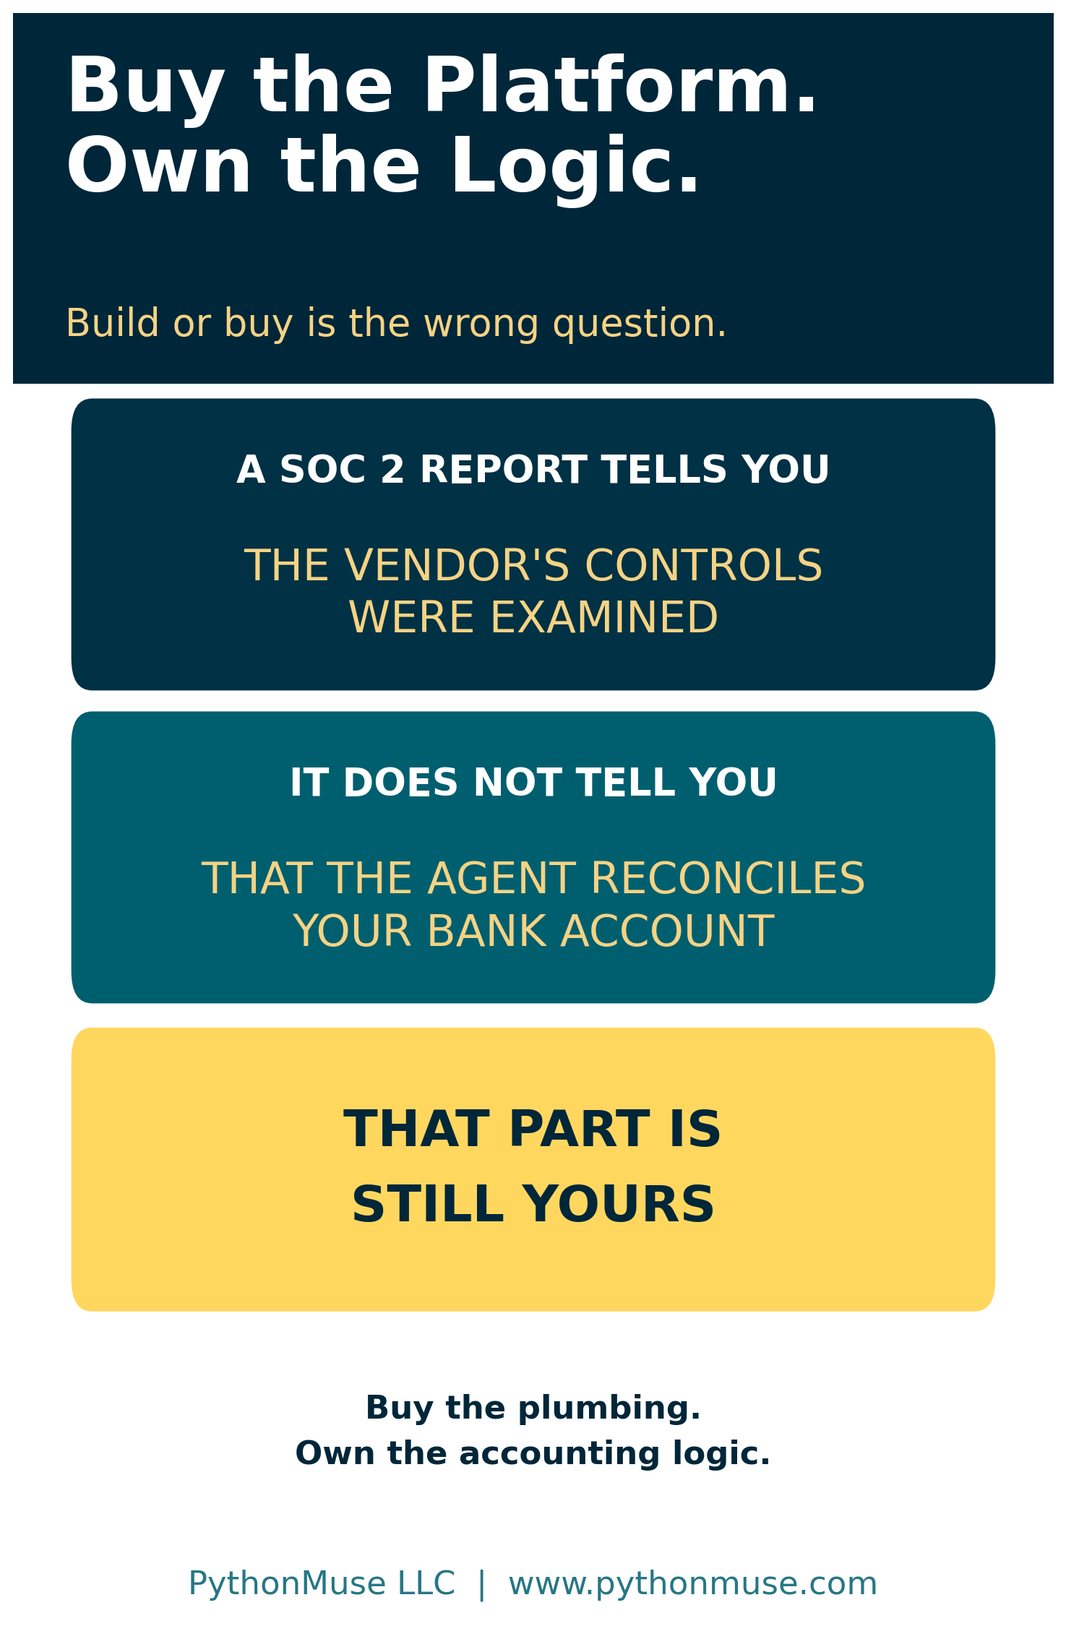
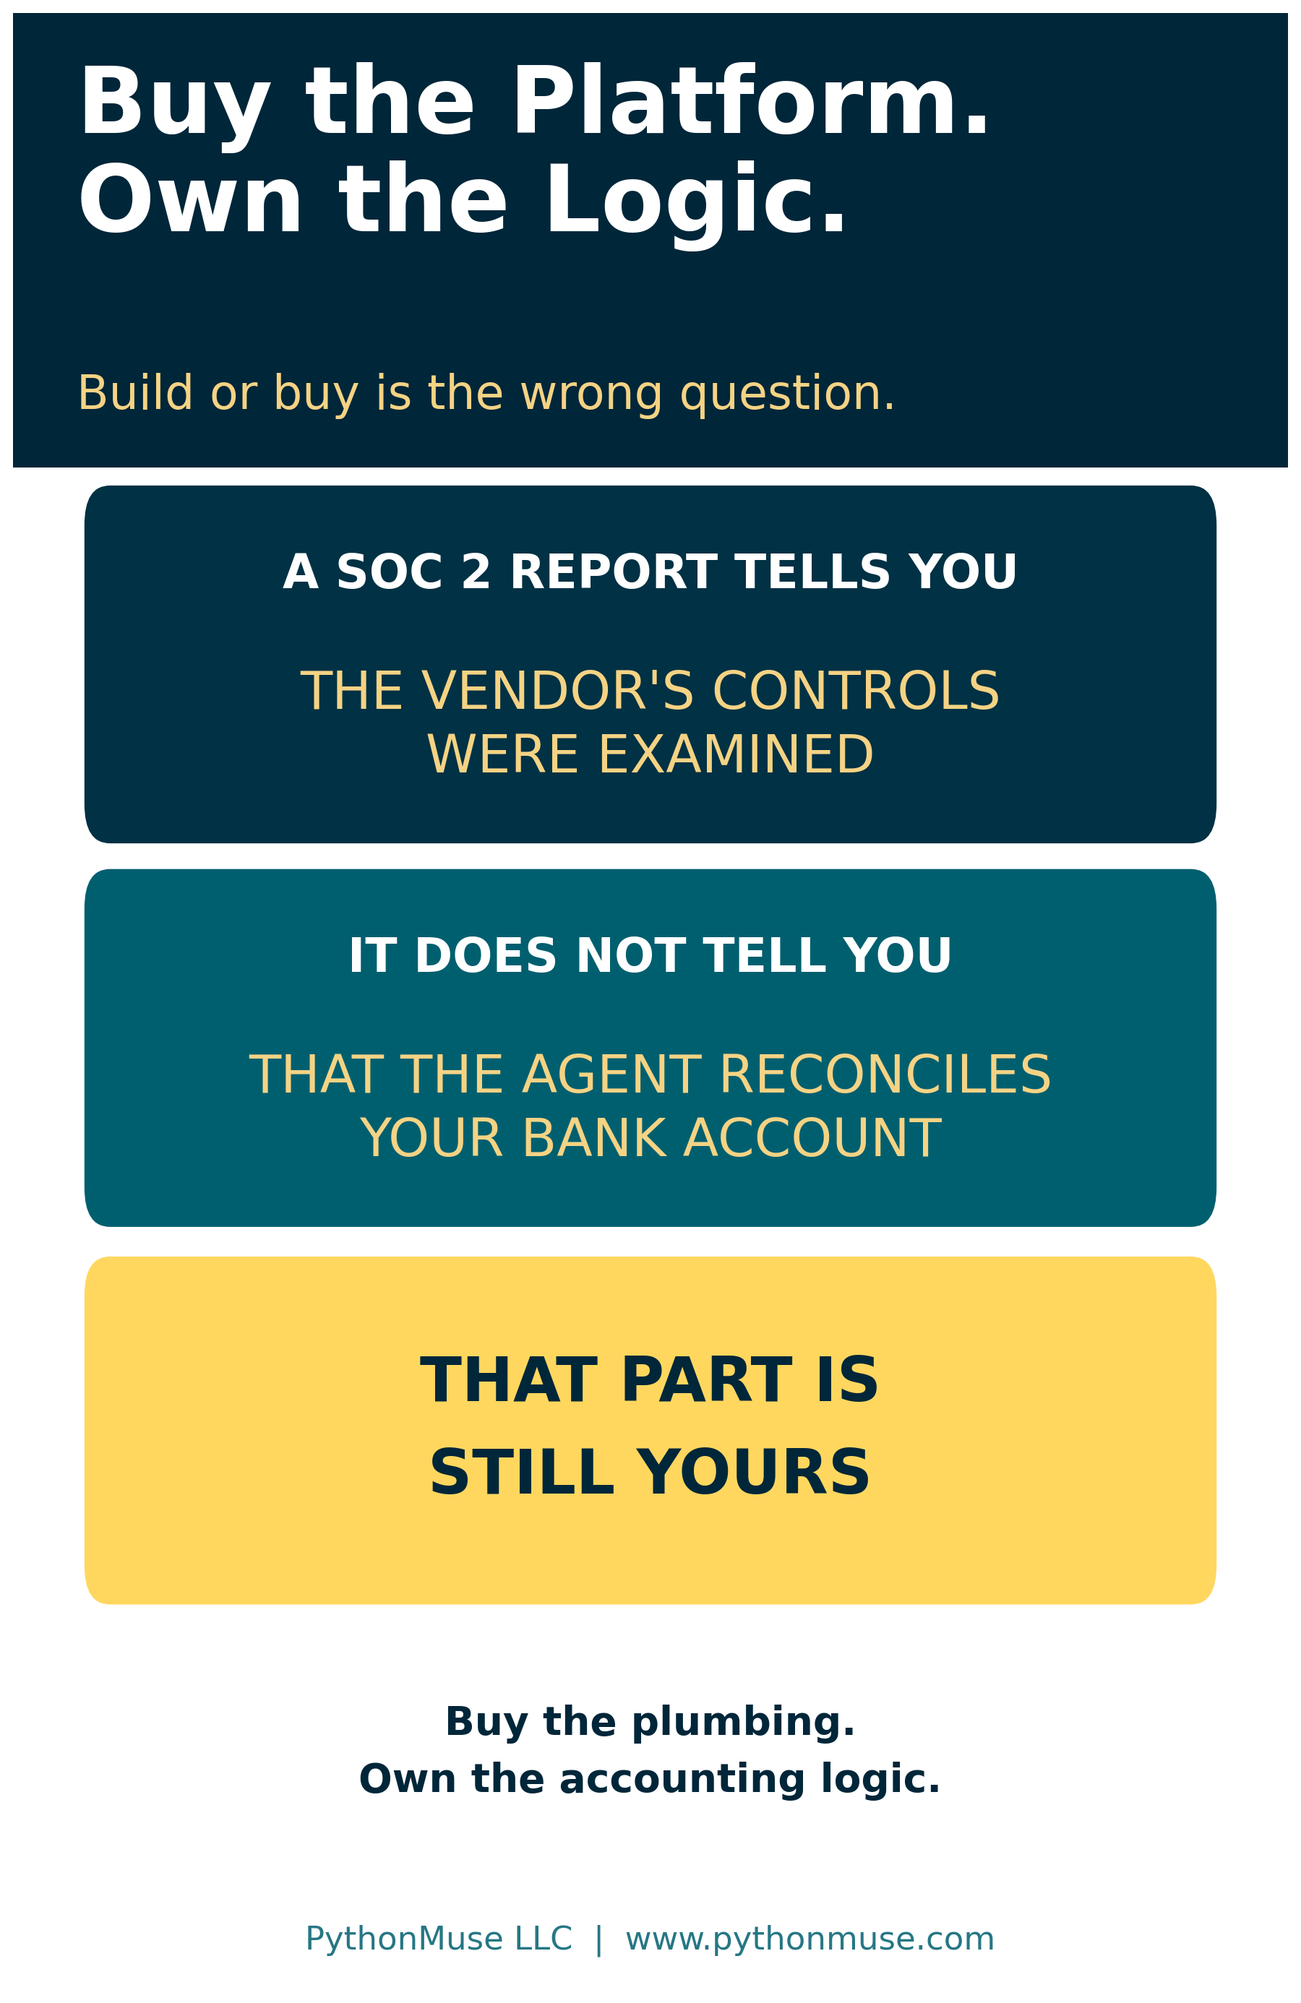
Scale Article 39 visuals for PowerPoint use: 22pt floor, proportional up
The set was tuned with an 18pt floor for full-screen PNG viewing. Since
these are meant to land on slides too, raised the floor to 22pt and scaled
every other size in each visual by the same 22/18 ratio -- not just the
smallest text, so relative proportions between title/body/label text are
unchanged.

Added FONT_SCALE plus pt()/canvas()/lw() helpers. Every rounded_box() and
add_header_bar() call still passes its original design-size numbers (pt()
scales internally), so the pre-scale sizing stays visible for reference.
Each figure's physical canvas (inches) scales by the same factor as its
text; since every box position and gap in the file is a fraction of the
figure, this keeps every box the same size relative to its now-larger text
without touching a single coordinate. Line weights (borders, arrows,
divider) scale by the same ratio for the same reason.

Footer branding ("PythonMuse LLC | www.pythonmuse.com") is exempted and
keeps its original size, per instruction -- it now reads as clearly
secondary next to the enlarged content, which is the intent.

Regenerated and reviewed all six PNGs; mkdocs build unaffected (same four
pre-existing warnings in articles 24/25/26, none new).

This is a trial pass, pending review, before the rule is written into
SKILL.md for future articles.

diff --git a/articles/39-buy-platform-own-accounting-logic/generate_visuals.py b/articles/39-buy-platform-own-accounting-logic/generate_visuals.py
@@ -24,6 +24,41 @@ LIGHT_GRAY = "#F5F5F5"
 
 plt.rcParams["font.family"] = "sans-serif"
 
+# ---------------------------------------------------------------------------
+# PowerPoint-readability pass (trial for the house SKILL.md rule): every
+# visual in this article was originally tuned with a 18pt floor. These are
+# meant to be dropped onto a slide, not just viewed full-screen as a PNG, so
+# the floor is raised to 22pt and every other size in the set is scaled up
+# by the same ratio -- not just the smallest text, or the small text would
+# end up closer in size to everything around it than it started.
+#
+# `pt()` wraps every *design* font size (the number tuned by eye in each
+# call below) so the original value stays visible for reference. `canvas()`
+# scales each figure's physical inches by the same factor -- since every box
+# position and gap in this file is a fraction of the figure (0-1), enlarging
+# the canvas by the same ratio as the text keeps every box the same size
+# *relative to its text* as before. Nothing needs to be repositioned; the
+# whole layout grows like a photograph enlargement. Footer branding
+# ("PythonMuse LLC | www.pythonmuse.com") is exempted and keeps its
+# original size, per instruction.
+FONT_SCALE = 22 / 18
+
+
+def pt(size):
+    """Scale a design font size by FONT_SCALE, rounded to the nearest point."""
+    return round(size * FONT_SCALE)
+
+
+def canvas(w, h):
+    """Scale a figure's inches by FONT_SCALE so boxes keep the same size
+    relative to the now-larger text instead of fighting it."""
+    return (round(w * FONT_SCALE, 1), round(h * FONT_SCALE, 1))
+
+
+def lw(width):
+    """Scale a line weight (points) by FONT_SCALE, to one decimal place."""
+    return round(width * FONT_SCALE, 1)
+
 
 def add_header_bar(fig, title, subtitle, height=0.13, title_size=29,
                     subtitle_size=16, brand_size=10.5, brand=True):
@@ -33,18 +68,19 @@ def add_header_bar(fig, title, subtitle, height=0.13, title_size=29,
         facecolor=DEEP_NAVY, edgecolor="none", zorder=0,
     )
     fig.patches.append(bar)
-    fig.text(0.03, 1 - height / 2 + 0.018, title, fontsize=title_size,
+    fig.text(0.03, 1 - height / 2 + 0.018, title, fontsize=pt(title_size),
              fontweight="bold", color=WHITE, va="center", ha="left")
-    fig.text(0.03, 1 - height / 2 - 0.032, subtitle, fontsize=subtitle_size,
+    fig.text(0.03, 1 - height / 2 - 0.032, subtitle, fontsize=pt(subtitle_size),
              color=WARM_GLOW, va="center", ha="left", alpha=1.0)
     if brand:
-        fig.text(0.97, 1 - height / 2, "PythonMuse LLC", fontsize=brand_size,
+        fig.text(0.97, 1 - height / 2, "PythonMuse LLC", fontsize=pt(brand_size),
                  color=WHITE, va="center", ha="right", alpha=0.70)
 
 
 # FancyBboxPatch inflates each box by `pad` on every side. Keep this small so
 # that the gaps computed in each layout below survive and the connector arrows
-# stay visible -- a larger pad silently eats them.
+# stay visible -- a larger pad silently eats them. This is a fractional
+# (data-space) value, not a font size, so it does not scale with FONT_SCALE.
 BOX_PAD = 0.004
 
 
@@ -60,23 +96,23 @@ def rounded_box(ax, xy, w, h, color, text_color=WHITE, text="", fontsize=12,
     cx, cy = xy[0] + w / 2, xy[1] + h / 2
     tx = text_x if text_x is not None else cx
     if sub:
-        ax.text(tx, cy + h * title_offset, text, fontsize=fontsize,
+        ax.text(tx, cy + h * title_offset, text, fontsize=pt(fontsize),
                 fontweight="bold" if bold else "normal",
                 color=text_color, ha=ha, va="center", zorder=zorder + 1)
-        ax.text(tx, cy - h * sub_offset, sub, fontsize=subsize,
+        ax.text(tx, cy - h * sub_offset, sub, fontsize=pt(subsize),
                 color=sub_color or text_color, ha=ha, va="center",
                 zorder=zorder + 1, alpha=1.0, linespacing=linespacing)
     else:
-        ax.text(tx, cy, text, fontsize=fontsize,
+        ax.text(tx, cy, text, fontsize=pt(fontsize),
                 fontweight="bold" if bold else "normal",
                 color=text_color, ha=ha, va="center", zorder=zorder + 1,
                 linespacing=linespacing)
 
 
-def arrow_v(ax, x, y1, y2, color=OCEAN_TEAL, lw=2.4):
+def arrow_v(ax, x, y1, y2, color=OCEAN_TEAL, width=2.4):
     ax.annotate("", xy=(x, y2), xytext=(x, y1),
-                arrowprops=dict(arrowstyle="-|>", color=color, lw=lw,
-                                mutation_scale=17), zorder=1)
+                arrowprops=dict(arrowstyle="-|>", color=color, lw=lw(width),
+                                mutation_scale=round(17 * FONT_SCALE)), zorder=1)
 
 
 # Anything at or lighter than Bright Teal takes dark text -- white on Bright
@@ -134,10 +170,13 @@ ACCOUNTING_LOGIC = [
 
 
 def make_hero():
-    # Row items are the focal text (32-36pt benchmark), so every supporting
-    # element -- header, column headers, divider label, banner, footer -- is
-    # sized a step up to match rather than left behind.
-    fig, ax = blank_axes((17.4, 17.4))
+    # Row items are the focal text (32-36pt design-size benchmark, before the
+    # PowerPoint pass), so every supporting element -- header, column
+    # headers, divider label, banner, footer -- is sized a step up to match
+    # rather than left behind. The canvas grows by the same FONT_SCALE
+    # factor as the text, so every box keeps its size relative to the text
+    # it holds.
+    fig, ax = blank_axes(canvas(17.4, 17.4))
     add_header_bar(fig, "The Line Is Not Between Build and Buy",
                    "It runs between the plumbing and the accounting logic.",
                    height=0.212, title_size=48, subtitle_size=22, brand=False)
@@ -158,7 +197,7 @@ def make_hero():
         y = head_bottom - gap - i * pitch - box_h
         rounded_box(ax, (left_x, y), col_w, box_h, LIGHT_GRAY,
                     text_color=DEEP_NAVY, text=label, fontsize=26, bold=False,
-                    linespacing=1.25, edge=OCEAN_TEAL, lw=1.1)
+                    linespacing=1.25, edge=OCEAN_TEAL, lw=lw(1.1))
 
     for i, label in enumerate(ACCOUNTING_LOGIC):
         y = head_bottom - gap - i * pitch - box_h
@@ -171,19 +210,20 @@ def make_hero():
 
     # The dividing line itself.
     ax.plot([0.50, 0.50], [0.168, header_top + 0.007], linestyle=(0, (5, 4)),
-            color=OCEAN_TEAL, linewidth=2.2, zorder=1)
-    ax.text(0.50, 0.400, "THE  REAL  DIVIDING  LINE", rotation=90, fontsize=19,
-            fontweight="bold", color=ALERT_ORANGE, ha="center", va="center",
-            zorder=4, bbox=dict(facecolor=WHITE, edgecolor="none", pad=5))
+            color=OCEAN_TEAL, linewidth=lw(2.2), zorder=1)
+    ax.text(0.50, 0.400, "THE  REAL  DIVIDING  LINE", rotation=90,
+            fontsize=pt(19), fontweight="bold", color=ALERT_ORANGE,
+            ha="center", va="center", zorder=4,
+            bbox=dict(facecolor=WHITE, edgecolor="none", pad=round(5 * FONT_SCALE)))
 
     wf_bottom, wf_h = 0.058, 0.106
     label_y = rows_bottom - 0.024
     arrow_top = label_y - 0.024
     ax.text(left_x + col_w / 2, label_y,
-            "somebody else builds this well", fontsize=19, fontweight="bold",
+            "somebody else builds this well", fontsize=pt(19), fontweight="bold",
             color=OCEAN_TEAL, ha="center", va="center")
     ax.text(right_x + col_w / 2, label_y,
-            "nobody else knows this", fontsize=19, fontweight="bold",
+            "nobody else knows this", fontsize=pt(19), fontweight="bold",
             color=SEA_GREEN, ha="center", va="center")
     arrow_v(ax, left_x + col_w / 2, arrow_top, wf_bottom + wf_h + 0.009,
             color=OCEAN_TEAL)
@@ -204,8 +244,9 @@ def make_hero():
     # that internal building carries real cost too.
     fig.text(0.5, 0.027,
              "You can buy the left column. You still have to answer for the right one.",
-             fontsize=19, color=DEEP_NAVY, ha="center", va="center",
+             fontsize=pt(19), color=DEEP_NAVY, ha="center", va="center",
              style="italic")
+    # Footer branding keeps its original size -- exempt from the scale pass.
     fig.text(0.5, 0.006, "PythonMuse LLC  |  www.pythonmuse.com",
              fontsize=20, color=OCEAN_TEAL, ha="center", va="center", alpha=0.78)
 
@@ -235,7 +276,7 @@ SOC_PANELS = [
 
 
 def make_soc_scope():
-    fig, ax = blank_axes((17.6, 18.6))
+    fig, ax = blank_axes(canvas(17.6, 18.6))
     add_header_bar(fig, "Three Reports. Three Different Questions.",
                    "Asking SOC 2 whether the agent reconciles your bank account is asking the wrong document.",
                    height=0.152, title_size=44, subtitle_size=21, brand=False)
@@ -254,26 +295,28 @@ def make_soc_scope():
         # the pairing, but the body line is set explicitly for clarity.
         body_col = DEEP_NAVY if fill in LIGHT_FILLS else WHITE
 
-        # Name chip on the left of the card, sized for the 24pt label it holds.
+        # Name chip on the left of the card, sized for the label it holds.
         chip_w = 0.205
         chip_fill = WHITE if fill in LIGHT_FILLS else WARM_GLOW
         rounded_box(ax, (x + 0.022, y + card_h / 2 - 0.048), chip_w, 0.096,
                     chip_fill, text_color=DEEP_NAVY, text=name, fontsize=30)
 
         text_left = x + 0.022 + chip_w + 0.030
-        ax.text(text_left, y + card_h * 0.775, verb, fontsize=19,
+        ax.text(text_left, y + card_h * 0.775, verb, fontsize=pt(19),
                 fontweight="bold", color=note_col, ha="left", va="center",
                 zorder=4)
-        ax.text(text_left, y + card_h * 0.505, body, fontsize=24,
+        ax.text(text_left, y + card_h * 0.505, body, fontsize=pt(24),
                 color=body_col, ha="left", va="center", zorder=4,
                 linespacing=1.42)
-        ax.text(text_left, y + card_h * 0.165, note, fontsize=18,
+        # This note was the 18pt floor that set FONT_SCALE -- it now renders
+        # at exactly 22pt.
+        ax.text(text_left, y + card_h * 0.165, note, fontsize=pt(18),
                 color=note_col, ha="left", va="center", zorder=4,
                 style="italic", linespacing=1.38)
 
     fig.text(0.5, 0.030,
              "Read the report, not the badge — then ask for the complementary user entity controls.",
-             fontsize=20, color=DEEP_NAVY, ha="center", va="center",
+             fontsize=pt(20), color=DEEP_NAVY, ha="center", va="center",
              fontweight="bold")
     fig.text(0.5, 0.008, "PythonMuse LLC  |  www.pythonmuse.com",
              fontsize=19, color=OCEAN_TEAL, ha="center", va="center", alpha=0.78)
@@ -284,9 +327,10 @@ def make_soc_scope():
 # ---------------------------------------------------------------------------
 # 3. Agent questions -- the accounting control question and its agent form
 # ---------------------------------------------------------------------------
-# The right column's longest lines are wrapped by hand: at 24pt in a 0.455-wide
-# column they overrun the card and collide with the incoming connector arrow.
-# Wrapping keeps the wording intact rather than shrinking the font to fit.
+# The right column's longest lines are wrapped by hand: at design-size 24pt in
+# a 0.455-wide column they overrun the card and collide with the incoming
+# connector arrow. Wrapping keeps the wording intact rather than shrinking
+# the font to fit.
 AGENT_ROWS = [
     ("Who can perform the action?",
      "Which tools and systems\nmay the agent call?"),
@@ -304,7 +348,7 @@ AGENT_ROWS = [
 
 
 def make_agent_questions():
-    fig, ax = blank_axes((19.0, 18.0))
+    fig, ax = blank_axes(canvas(19.0, 18.0))
     add_header_bar(fig, "The Questions Did Not Change. The Actor Did.",
                    "Accounting has asked all six of these since long before anyone said \"agentic.\"",
                    height=0.130, title_size=44, subtitle_size=21, brand=False)
@@ -326,15 +370,15 @@ def make_agent_questions():
         y = head_bottom - gap - i * pitch - row_h
         rounded_box(ax, (left_x, y), col_w, row_h, LIGHT_GRAY,
                     text_color=DEEP_NAVY, text=classic, fontsize=24,
-                    bold=False, linespacing=1.25, edge=OCEAN_TEAL, lw=1.1)
+                    bold=False, linespacing=1.25, edge=OCEAN_TEAL, lw=lw(1.1))
         rounded_box(ax, (right_x, y), col_w, row_h, MIDNIGHT_TEAL,
                     text_color=WHITE, text=agentic, fontsize=24,
                     bold=False, linespacing=1.25)
         # Connector between the two columns for this row.
         ax.annotate("", xy=(right_x - 0.004, y + row_h / 2),
                     xytext=(left_x + col_w + 0.004, y + row_h / 2),
-                    arrowprops=dict(arrowstyle="-|>", color=SEA_GREEN, lw=2.2,
-                                    mutation_scale=16), zorder=1)
+                    arrowprops=dict(arrowstyle="-|>", color=SEA_GREEN, lw=lw(2.2),
+                                    mutation_scale=round(16 * FONT_SCALE)), zorder=1)
 
     rows_bottom = head_bottom - gap - (len(AGENT_ROWS) - 1) * pitch - row_h
 
@@ -344,6 +388,8 @@ def make_agent_questions():
                 text_color=DEEP_NAVY,
                 text="THE NOUNS CHANGED. THE QUESTIONS DID NOT.",
                 fontsize=27,
+                # This subtitle was the other 18pt floor -- also lands at
+                # exactly 22pt now.
                 sub="NIST is working on agent identity and authorization. Accounting has been working on it for a century.",
                 subsize=18, sub_color=OCEAN_TEAL,
                 title_offset=0.19, sub_offset=0.25)
@@ -368,7 +414,7 @@ EXIT_ITEMS = [
 
 
 def make_exit_test():
-    fig, ax = blank_axes((17.0, 18.0))
+    fig, ax = blank_axes(canvas(17.0, 18.0))
     add_header_bar(fig, "The Exit Test",
                    "If the relationship ends tomorrow, what do you actually walk out with?",
                    height=0.128, title_size=50, subtitle_size=21, brand=False)
@@ -385,17 +431,17 @@ def make_exit_test():
 
     for i, (label, detail) in enumerate(EXIT_ITEMS):
         y = top - i * (card_h + gap) - card_h
-        rounded_box(ax, (x, y), w, card_h, LIGHT_GRAY, edge=OCEAN_TEAL, lw=1.1)
+        rounded_box(ax, (x, y), w, card_h, LIGHT_GRAY, edge=OCEAN_TEAL, lw=lw(1.1))
 
         # Numbered badge, sized to sit inside the shorter card with margin.
         rounded_box(ax, (x + 0.020, y + card_h / 2 - 0.030), 0.068, 0.060,
                     num_fills[i], text_color=WHITE, text=str(i + 1), fontsize=28)
 
         text_left = x + 0.020 + 0.068 + 0.028
-        ax.text(text_left, y + card_h * 0.680, label, fontsize=25,
+        ax.text(text_left, y + card_h * 0.680, label, fontsize=pt(25),
                 fontweight="bold", color=DEEP_NAVY, ha="left", va="center",
                 zorder=4)
-        ax.text(text_left, y + card_h * 0.280, detail, fontsize=21,
+        ax.text(text_left, y + card_h * 0.280, detail, fontsize=pt(21),
                 color=OCEAN_TEAL, ha="left", va="center", zorder=4)
 
     rows_bottom = top - (len(EXIT_ITEMS) - 1) * (card_h + gap) - card_h
@@ -411,7 +457,7 @@ def make_exit_test():
 
     fig.text(0.5, 0.038,
              "Run this before you sign — not the week you need it.",
-             fontsize=20, color=DEEP_NAVY, ha="center", va="center",
+             fontsize=pt(20), color=DEEP_NAVY, ha="center", va="center",
              style="italic")
     fig.text(0.5, 0.010, "PythonMuse LLC  |  www.pythonmuse.com",
              fontsize=19, color=OCEAN_TEAL, ha="center", va="center", alpha=0.78)
@@ -442,7 +488,7 @@ TRUST_QUESTIONS = [
 
 
 def make_three_questions():
-    fig, ax = blank_axes((17.8, 18.8))
+    fig, ax = blank_axes(canvas(17.8, 18.8))
     add_header_bar(fig, "Three Questions Before You Approve an Agent",
                    "Built it or bought it — the third one never leaves the department.",
                    height=0.145, title_size=43, subtitle_size=21, brand=False)
@@ -467,16 +513,16 @@ def make_three_questions():
                     badge_fill, text_color=DEEP_NAVY, text=num, fontsize=30)
 
         text_left = x + 0.022 + 0.072 + 0.028
-        ax.text(text_left, y + card_h * 0.820, question, fontsize=27,
+        ax.text(text_left, y + card_h * 0.820, question, fontsize=pt(27),
                 fontweight="bold", color=head_col, ha="left", va="center",
                 zorder=4)
         # Body sits higher than the first pass so the owner chip below it has
         # real clearance instead of touching the body's last line.
-        ax.text(text_left, y + card_h * 0.520, body, fontsize=21,
+        ax.text(text_left, y + card_h * 0.520, body, fontsize=pt(21),
                 color=body_col, ha="left", va="center", zorder=4,
                 linespacing=1.40)
 
-        # Owner chip, bottom-left under the body, widened for its 19pt label.
+        # Owner chip, bottom-left under the body, widened for its label.
         chip_w = 0.30 if len(owner) > 16 else 0.20
         rounded_box(ax, (text_left, y + card_h * 0.045), chip_w, 0.048,
                     DEEP_NAVY if on_light else WHITE,
@@ -485,13 +531,13 @@ def make_three_questions():
 
         if i == 2:
             ax.text(x + w - 0.028, y + card_h * 0.150,
-                    "does not outsource", fontsize=20, fontweight="bold",
+                    "does not outsource", fontsize=pt(20), fontweight="bold",
                     color=OCEAN_TEAL, ha="right", va="center", zorder=4,
                     style="italic")
 
     fig.text(0.5, 0.032,
              "\"How do you know this works?\" is not a question the vendor can answer for you.",
-             fontsize=21, color=DEEP_NAVY, ha="center", va="center",
+             fontsize=pt(21), color=DEEP_NAVY, ha="center", va="center",
              fontweight="bold")
     fig.text(0.5, 0.009, "PythonMuse LLC  |  www.pythonmuse.com",
              fontsize=19, color=OCEAN_TEAL, ha="center", va="center", alpha=0.78)
@@ -505,7 +551,7 @@ def make_three_questions():
 def make_social_square():
     # Narrow canvas (8in), so the title wraps to two lines to stay dominant --
     # add_header_bar's offsets assume one line, so the bar is built by hand.
-    fig, ax = blank_axes((8, 12.4))
+    fig, ax = blank_axes(canvas(8, 12.4))
     header_h = 0.230
     bar = FancyBboxPatch(
         (0, 1 - header_h), 1, header_h,
@@ -513,11 +559,11 @@ def make_social_square():
         facecolor=DEEP_NAVY, edgecolor="none", zorder=0,
     )
     fig.patches.append(bar)
-    fig.text(0.05, 0.975, "Buy the Platform.\nOwn the Logic.", fontsize=42,
+    fig.text(0.05, 0.975, "Buy the Platform.\nOwn the Logic.", fontsize=pt(42),
              fontweight="bold", color=WHITE, va="top", ha="left",
              linespacing=1.1)
     fig.text(0.05, 0.818, "Build or buy is the wrong question.",
-             fontsize=21, color=WARM_GLOW, va="top", ha="left")
+             fontsize=pt(21), color=WARM_GLOW, va="top", ha="left")
 
     rounded_box(ax, (0.06, 0.584), 0.88, 0.173, MIDNIGHT_TEAL,
                 text_color=WHITE, text="A SOC 2 REPORT TELLS YOU",
@@ -538,9 +584,10 @@ def make_social_square():
                 text="THAT PART IS\nSTILL YOURS",
                 fontsize=28, linespacing=1.7)
 
+    # This closing line was the third 18pt floor in the set -- also now 22pt.
     fig.text(0.5, 0.120,
              "Buy the plumbing.\nOwn the accounting logic.",
-             fontsize=18, color=DEEP_NAVY, ha="center", va="center",
+             fontsize=pt(18), color=DEEP_NAVY, ha="center", va="center",
              fontweight="bold", linespacing=1.6)
     fig.text(0.5, 0.025, "PythonMuse LLC  |  www.pythonmuse.com", fontsize=18,
              color=OCEAN_TEAL, ha="center", va="center", alpha=0.85)
